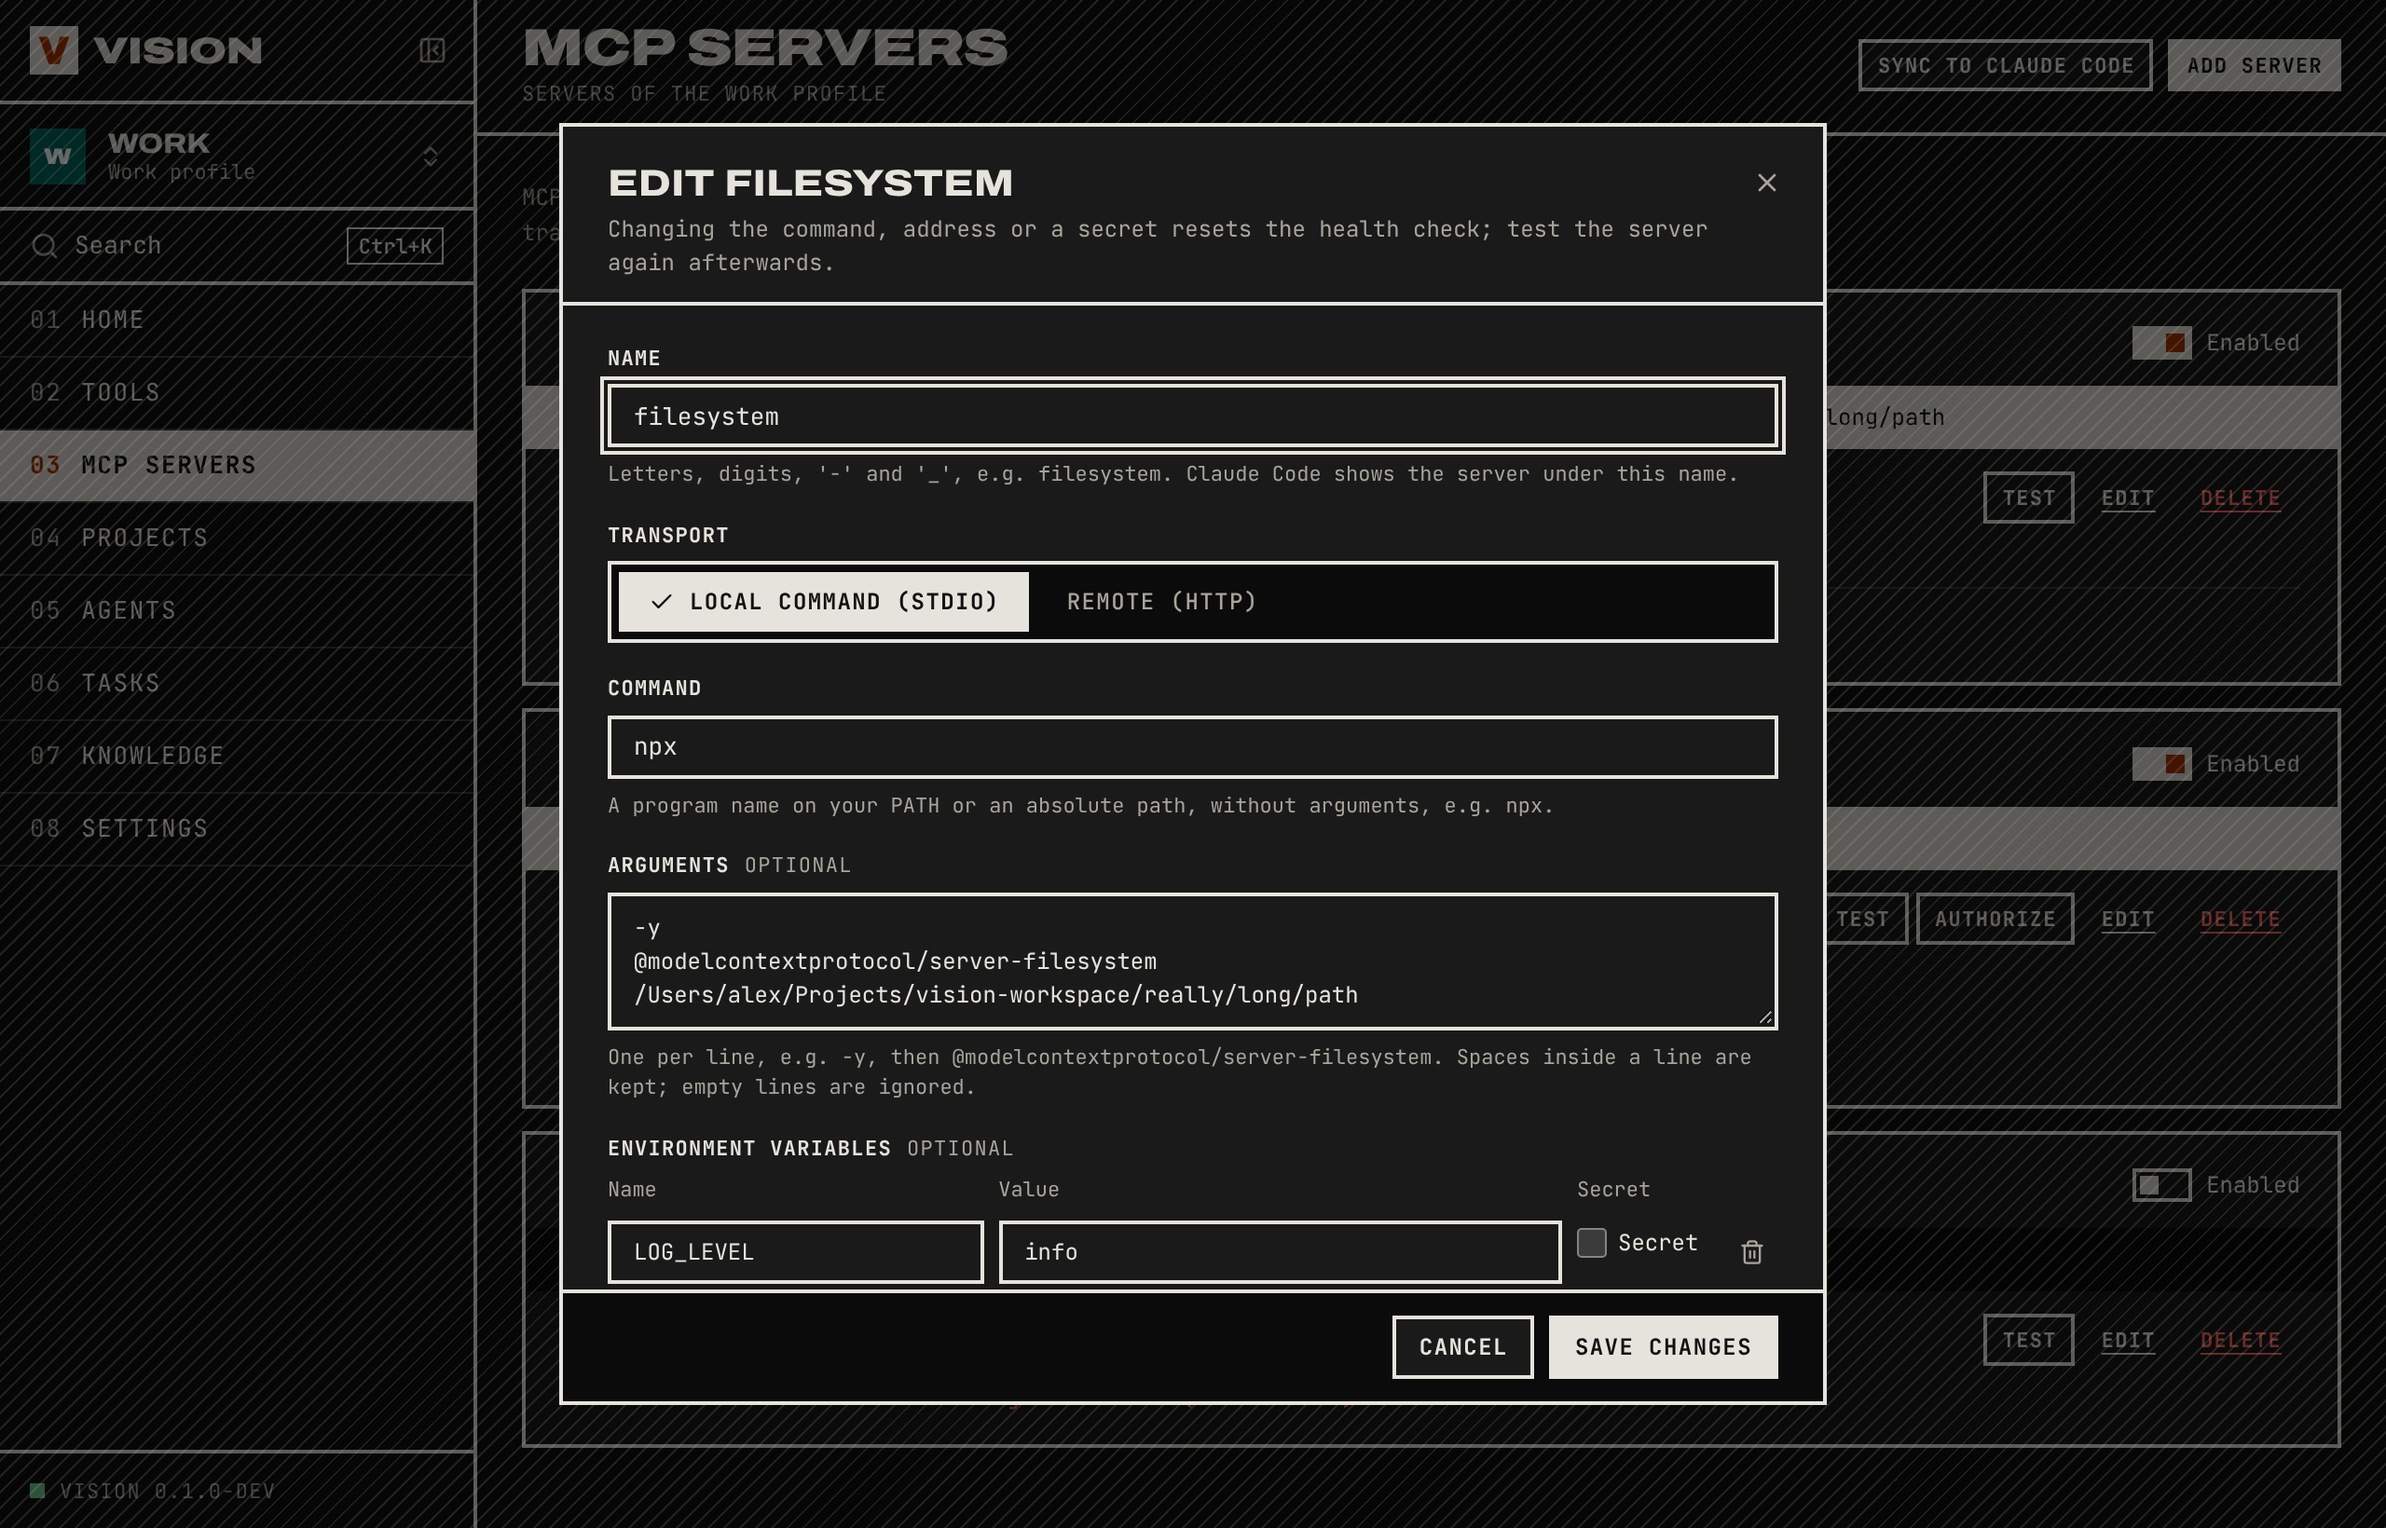
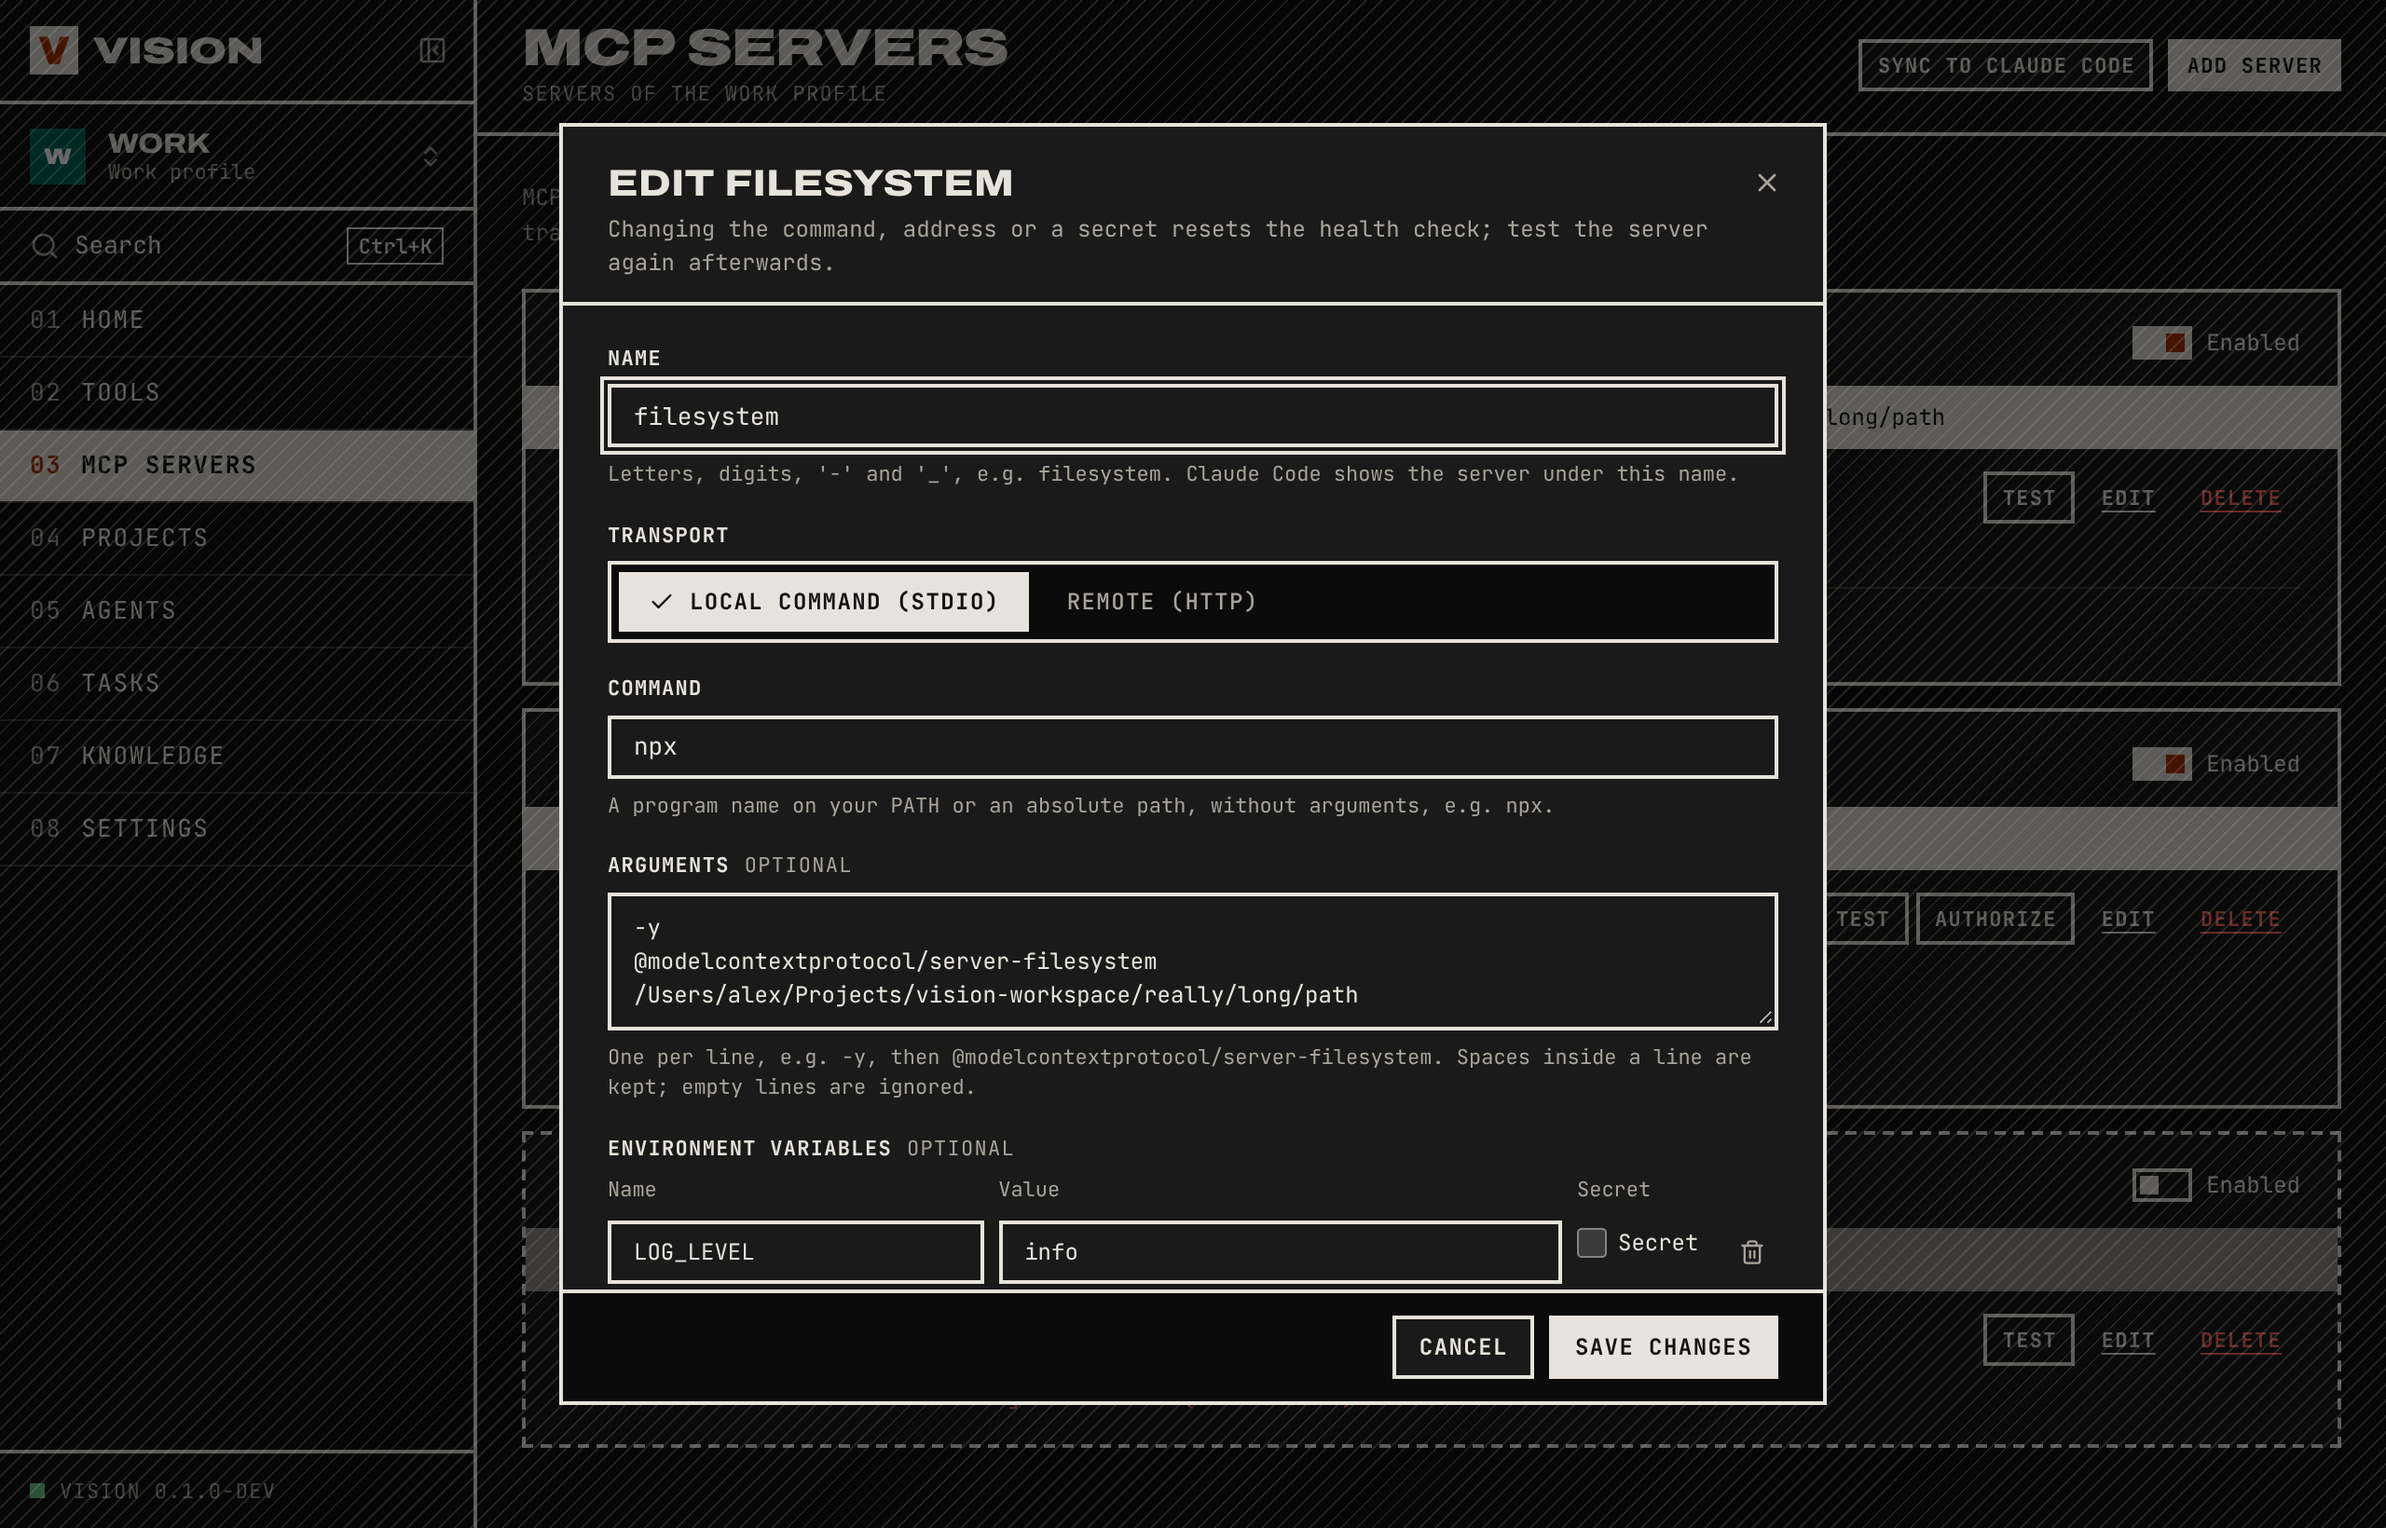
fix(ui): review findings for the Beton redesign
Focus ring drawn inside full-bleed sidebar rows, wide MCP grid scoped to
>900px, wrapped command lines, dashed disabled server rows, warning
callout and approval icon without pastel fills, Send hover matches
primary buttons, overflow guards at narrow widths.

Claude-Session: https://claude.ai/code/session_017dg8cEgRk2rrnSNHRav55d

Changed region(s): [[0.75, 0.7774, 1.0, 0.8707], [0.2188, 0.8085, 0.25, 0.8396]]

diff --git a/src/styles/views.css b/src/styles/views.css
@@ -356,45 +356,47 @@
   background: var(--color-surface);
 }
 
-/*
- * Wide rows: name and switch on top, the command as a full-bleed terminal line, then
- * details on the left and actions on the right. The wrappers dissolve into the row grid;
- * DOM order (and so reading and focus order) is unchanged.
- */
-.server-row:not(.is-loading) {
-  gap: var(--space-2) var(--space-4);
-}
+@media (min-width: 901px) {
+  /*
+   * Wide rows: name and switch on top, the command as a full-bleed terminal line, then
+   * details on the left and actions on the right. The wrappers dissolve into the row grid;
+   * DOM order (and so reading and focus order) is unchanged.
+   */
+  .server-row:not(.is-loading) {
+    gap: var(--space-2) var(--space-4);
+  }
 
-.server-row:not(.is-loading) > .server-main,
-.server-row:not(.is-loading) > .server-side {
-  display: contents;
-}
+  .server-row:not(.is-loading) > .server-main,
+  .server-row:not(.is-loading) > .server-side {
+    display: contents;
+  }
 
-.server-row:not(.is-loading) .server-heading {
-  grid-column: 1;
-  grid-row: 1;
-}
+  .server-row:not(.is-loading) .server-heading {
+    grid-column: 1;
+    grid-row: 1;
+  }
 
-.server-row:not(.is-loading) .server-side > .switch {
-  grid-column: 2;
-  grid-row: 1;
-  justify-self: end;
-}
+  .server-row:not(.is-loading) .server-side > .switch {
+    grid-column: 2;
+    grid-row: 1;
+    justify-self: end;
+  }
 
-.server-row:not(.is-loading) .server-target {
-  grid-column: 1 / -1;
-  grid-row: 2;
-  margin-block: var(--space-1);
-}
+  .server-row:not(.is-loading) .server-target {
+    grid-column: 1 / -1;
+    grid-row: 2;
+    margin-block: var(--space-1);
+  }
 
-.server-row:not(.is-loading) .server-main > :not(.server-heading, .server-target) {
-  grid-column: 1;
-}
+  .server-row:not(.is-loading) .server-main > :not(.server-heading, .server-target) {
+    grid-column: 1;
+  }
 
-.server-row:not(.is-loading) .server-actions {
-  grid-column: 2;
-  grid-row: 3;
-  align-self: start;
+  .server-row:not(.is-loading) .server-actions {
+    grid-column: 2;
+    grid-row: 3;
+    align-self: start;
+  }
 }
 
 .server-row.is-loading {
@@ -403,19 +405,27 @@
   min-height: 88px;
 }
 
+/* A disabled server keeps its shape: dashed frame, dimmed name and command line. */
+.server-row.is-disabled {
+  border-style: dashed;
+}
+
 .server-row.is-disabled .server-name {
   color: var(--color-text-muted);
 }
 
 .server-row.is-disabled .server-target {
-  background: var(--color-surface-sunken);
-  color: var(--color-text-muted);
+  opacity: 0.6;
 }
 
 .server-main {
   display: flex;
   flex-direction: column;
   gap: var(--space-2);
+  min-width: 0;
+}
+
+.server-main > * {
   min-width: 0;
 }
 
@@ -463,6 +473,11 @@
   overflow: hidden;
   text-overflow: ellipsis;
   white-space: nowrap;
+}
+
+.server-target.is-wrap {
+  white-space: normal;
+  overflow-wrap: anywhere;
 }
 
 .server-target::before {
@@ -999,7 +1014,9 @@
 }
 
 .callout.is-warning {
-  background: var(--color-warning-bg);
+  background: transparent;
+  border: var(--line) solid var(--color-border);
+  border-left: 8px solid var(--color-signal);
   color: var(--color-text);
 }
 
@@ -1281,6 +1298,7 @@
 }
 
 .overview-figure {
+  overflow-wrap: anywhere;
   font-family: var(--font-display);
   font-stretch: 125%;
   font-size: var(--font-size-display);
@@ -1420,17 +1438,6 @@
 @media (max-width: 900px) {
   .server-row {
     grid-template-columns: minmax(0, 1fr);
-  }
-
-  .server-row:not(.is-loading) > .server-main,
-  .server-row:not(.is-loading) > .server-side {
-    display: flex;
-  }
-
-  .server-row:not(.is-loading) .server-main > *,
-  .server-row:not(.is-loading) .server-side > * {
-    grid-column: auto;
-    grid-row: auto;
   }
 
   .server-side {

diff --git a/src/styles/components.css b/src/styles/components.css
@@ -619,7 +619,7 @@
 }
 
 .tree-row.is-selected .tree-icon {
-  color: var(--accent-text);
+  color: var(--color-text);
 }
 
 .tree-label {
@@ -891,8 +891,8 @@
   height: 32px;
   flex: none;
   border-radius: var(--radius-sm);
-  background: var(--color-warning-bg);
-  color: var(--color-warning);
+  background: var(--color-signal);
+  color: var(--color-signal-fg);
 }
 
 .approval-allowed .approval-icon {
@@ -1085,8 +1085,8 @@
 }
 
 .composer-send:hover:not(:disabled) {
-  background: var(--accent-hover);
-  color: var(--accent-fg);
+  background: var(--color-signal);
+  color: var(--color-signal-fg);
 }
 
 .composer-send:disabled {
@@ -1353,7 +1353,7 @@
 .palette-search::before {
   content: ">";
   content: ">" / "";
-  color: var(--color-signal);
+  color: var(--color-text);
   font-weight: var(--font-weight-semibold);
 }
 

diff --git a/src/styles/layout.css b/src/styles/layout.css
@@ -157,6 +157,18 @@
   font-weight: var(--font-weight-semibold);
 }
 
+/* Full-bleed rows sit in an overflow-hidden sidebar: draw their focus ring inside. */
+.nav-item:focus-visible,
+.sidebar-search:focus-visible,
+.sidebar-new-task:focus-visible,
+.sidebar .profile-button:focus-visible {
+  outline-offset: -4px;
+}
+
+.nav-item.is-current:focus-visible {
+  outline-color: var(--color-text-inverse);
+}
+
 .sidebar:not(.is-collapsed) .nav-item.is-current::before,
 .nav-item.is-current svg {
   color: var(--color-signal-on-ink);

diff --git a/src/styles/tokens.css b/src/styles/tokens.css
@@ -18,7 +18,8 @@
 :root {
   color-scheme: light;
 
-  /* Colours: surfaces, lines, text, status, signal, diff */
+  /* Colours: surfaces, lines, text, status, signal, diff. --color-rule is for decorative
+     row separators only, never for a control border (it is below 3:1). */
   --color-bg: #d6d3cc;
   --color-bg-sidebar: #d6d3cc;
   --color-surface: #e9e7e2;
